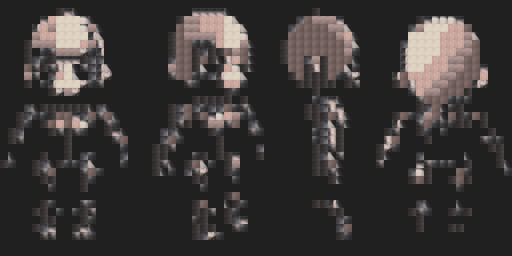
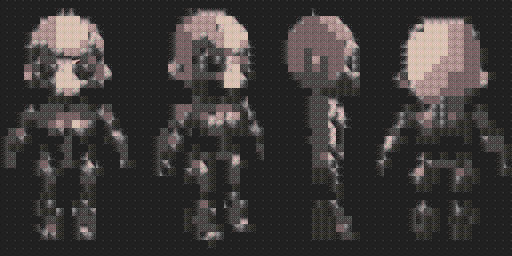
works now
- limits colours per image, not tile
 - simplifies _image code
 - adds dithering to _3bp

diff --git a/quantize_3bp.py b/quantize_3bp.py
@@ -2,18 +2,7 @@ from PIL import Image
 import numpy as np
 from sklearn.cluster import KMeans
 
-def quantize_to_3bit_palette(image):
-    """
-    Quantize image colors to use only the 3 most significant bits of each channel.
-    """
-    img_array = np.array(image)
-    
-    # Create a mask for the 3 most significant bits (shift right by 5 bits and shift back)
-    quantized_array = (img_array >> 5) << 5
-    
-    return Image.fromarray(quantized_array)
-
-def quantize_tiles_with_3bit_palette(image_path, tile_size=8, num_tiles=2):
+def tile_and_quantize_image(image_path, tile_size=8, num_tiles=64, num_colors=16):
     # Open the image
     img = Image.open(image_path)
     img = img.convert('RGB')
@@ -23,15 +12,14 @@ def quantize_tiles_with_3bit_palette(image_path, tile_size=8, num_tiles=2):
     img = img.crop((0, 0, width - width % tile_size, height - height % tile_size))
     width, height = img.size
 
-    # Quantize image to 3-bit per channel palette
-    quantized_img = quantize_to_3bit_palette(img)
-    quantized_img_array = np.array(quantized_img)
+    # Convert image to NumPy array
+    img_array = np.array(img)
 
     # Break the image into tiles and flatten each tile
     tiles = []
     for y in range(0, height, tile_size):
         for x in range(0, width, tile_size):
-            tile = quantized_img_array[y:y + tile_size, x:x + tile_size]
+            tile = img_array[y:y + tile_size, x:x + tile_size]
             tiles.append(tile.flatten())
 
     # Apply KMeans to find the most common tiles
@@ -39,7 +27,7 @@ def quantize_tiles_with_3bit_palette(image_path, tile_size=8, num_tiles=2):
     unique_tiles = tile_kmeans.cluster_centers_.astype('uint8')
 
     # Reconstruct the image with the most common tiles
-    new_img_array = np.zeros_like(quantized_img_array)
+    new_img_array = np.zeros_like(img_array)
     tile_idx = 0
     for y in range(0, height, tile_size):
         for x in range(0, width, tile_size):
@@ -48,19 +36,67 @@ def quantize_tiles_with_3bit_palette(image_path, tile_size=8, num_tiles=2):
             new_img_array[y:y + tile_size, x:x + tile_size] = tile
             tile_idx += 1
 
+    # Dithering matrix for ordered dithering
+    bayer_matrix_8x8 = np.array([
+        [0, 48, 12, 60, 3, 51, 15, 63],
+        [32, 16, 44, 28, 35, 19, 47, 31],
+        [8, 56, 4, 52, 11, 59, 7, 55],
+        [40, 24, 36, 20, 43, 27, 39, 23],
+        [2, 50, 14, 62, 1, 49, 13, 61],
+        [34, 18, 46, 30, 33, 17, 45, 29],
+        [10, 58, 6, 54, 9, 57, 5, 53],
+        [42, 26, 38, 22, 41, 25, 37, 21]
+    ]) / 64.0
+
+    def ordered_dither(image_array, dither_matrix):
+        height, width, _ = image_array.shape
+        dithered_image = np.zeros_like(image_array)
+        for y in range(height):
+            for x in range(width):
+                threshold = dither_matrix[y % 8, x % 8]
+                for c in range(3):
+                    old_value = image_array[y, x, c] / 255.0
+                    new_value = np.floor(old_value * 7 + threshold) / 7
+                    dithered_image[y, x, c] = np.round(new_value * 255)
+        return dithered_image
+
+    # Apply ordered dithering
+    dithered_img_array = ordered_dither(new_img_array, bayer_matrix_8x8)
+
+    # Flatten the dithered image array for color quantization
+    pixels = dithered_img_array.reshape(-1, 3)
+
+    # Apply KMeans clustering to limit the number of colors
+    color_kmeans = KMeans(n_clusters=num_colors, random_state=0).fit(pixels)
+    limited_colors = color_kmeans.cluster_centers_.astype('uint8')
+    labels = color_kmeans.labels_
+
+    # Reconstruct the image with the limited colors
+    final_img_array = limited_colors[labels].reshape(dithered_img_array.shape)
+
+    # Round each color to the nearest 3 bits per channel color
+    def round_to_nearest_3_bits(color):
+        return (color // 32) * 32
+
+    final_img_array = np.apply_along_axis(round_to_nearest_3_bits, axis=2, arr=final_img_array)
+
+    # Debug: Check the number of unique colors in the final image
+    unique_colors_final = np.unique(final_img_array.reshape(-1, 3), axis=0)
+    print(f"Unique colors in final image: {len(unique_colors_final)}")
+
     # Convert NumPy array back to an image
-    new_img = Image.fromarray(new_img_array)
-    return new_img
+    final_img = Image.fromarray(final_img_array.astype('uint8'))
+    return final_img
 
 # Define the main function
 def main():
-    input_image_path = 'in4.png'  # Update with your image path
-    output_image_path = 'output_quantized_image_3bit_palette.png'
+    input_image_path = 'tiny arnold IN.png'
+    output_image_path = 'output_dithered_quantized_image.png'
 
-    # Quantize the tiles with 3-bit palette and save the output image
-    quantized_image = quantize_tiles_with_3bit_palette(input_image_path)
+    # Tile and quantize the image, then save the output image
+    quantized_image = tile_and_quantize_image(input_image_path, tile_size=8, num_tiles=1024, num_colors=16)
     quantized_image.save(output_image_path)
-    print(f'Quantized image saved as {output_image_path}')
+    print(f'Dithered and quantized image saved as {output_image_path}')
 
 # Run the main function
 if __name__ == '__main__':

diff --git a/quantize_image.py b/quantize_image.py
@@ -2,7 +2,7 @@ from PIL import Image
 import numpy as np
 from sklearn.cluster import KMeans
 
-def quantize_tiles_with_color_limit(image_path, tile_size=8, num_tiles=64, num_colors=16):
+def tile_image(image_path, tile_size=8, num_tiles=64):
     # Open the image
     img = Image.open(image_path)
     img = img.convert('RGB')
@@ -15,22 +15,11 @@ def quantize_tiles_with_color_limit(image_path, tile_size=8, num_tiles=64, num_c
     # Convert image to NumPy array
     img_array = np.array(img)
 
-    # Flatten the image array for color quantization
-    pixels = img_array.reshape(-1, 3)
-
-    # Apply KMeans clustering to limit the number of colors
-    color_kmeans = KMeans(n_clusters=num_colors, random_state=0).fit(pixels)
-    limited_colors = color_kmeans.cluster_centers_.astype('uint8')
-    labels = color_kmeans.labels_
-
-    # Reconstruct the image with the limited colors
-    quantized_img_array = limited_colors[labels].reshape(img_array.shape)
-
     # Break the image into tiles and flatten each tile
     tiles = []
     for y in range(0, height, tile_size):
         for x in range(0, width, tile_size):
-            tile = quantized_img_array[y:y + tile_size, x:x + tile_size]
+            tile = img_array[y:y + tile_size, x:x + tile_size]
             tiles.append(tile.flatten())
 
     # Apply KMeans to find the most common tiles
@@ -38,7 +27,7 @@ def quantize_tiles_with_color_limit(image_path, tile_size=8, num_tiles=64, num_c
     unique_tiles = tile_kmeans.cluster_centers_.astype('uint8')
 
     # Reconstruct the image with the most common tiles
-    new_img_array = np.zeros_like(quantized_img_array)
+    new_img_array = np.zeros_like(img_array)
     tile_idx = 0
     for y in range(0, height, tile_size):
         for x in range(0, width, tile_size):
@@ -53,13 +42,13 @@ def quantize_tiles_with_color_limit(image_path, tile_size=8, num_tiles=64, num_c
 
 # Define the main function
 def main():
-    input_image_path = 'red fruit IN.png'
-    output_image_path = 'output_quantized_image.png'
+    input_image_path = 'FG1 IN.png'
+    output_image_path = 'output_tiled_image.png'
 
-    # Quantize the tiles with color limit and save the output image
-    quantized_image = quantize_tiles_with_color_limit(input_image_path)
-    quantized_image.save(output_image_path)
-    print(f'Quantized image saved as {output_image_path}')
+    # Tile the image and save the output image
+    tiled_image = tile_image(input_image_path, 8, 64)
+    tiled_image.save(output_image_path)
+    print(f'Tiled image saved as {output_image_path}')
 
 # Run the main function
 if __name__ == '__main__':
